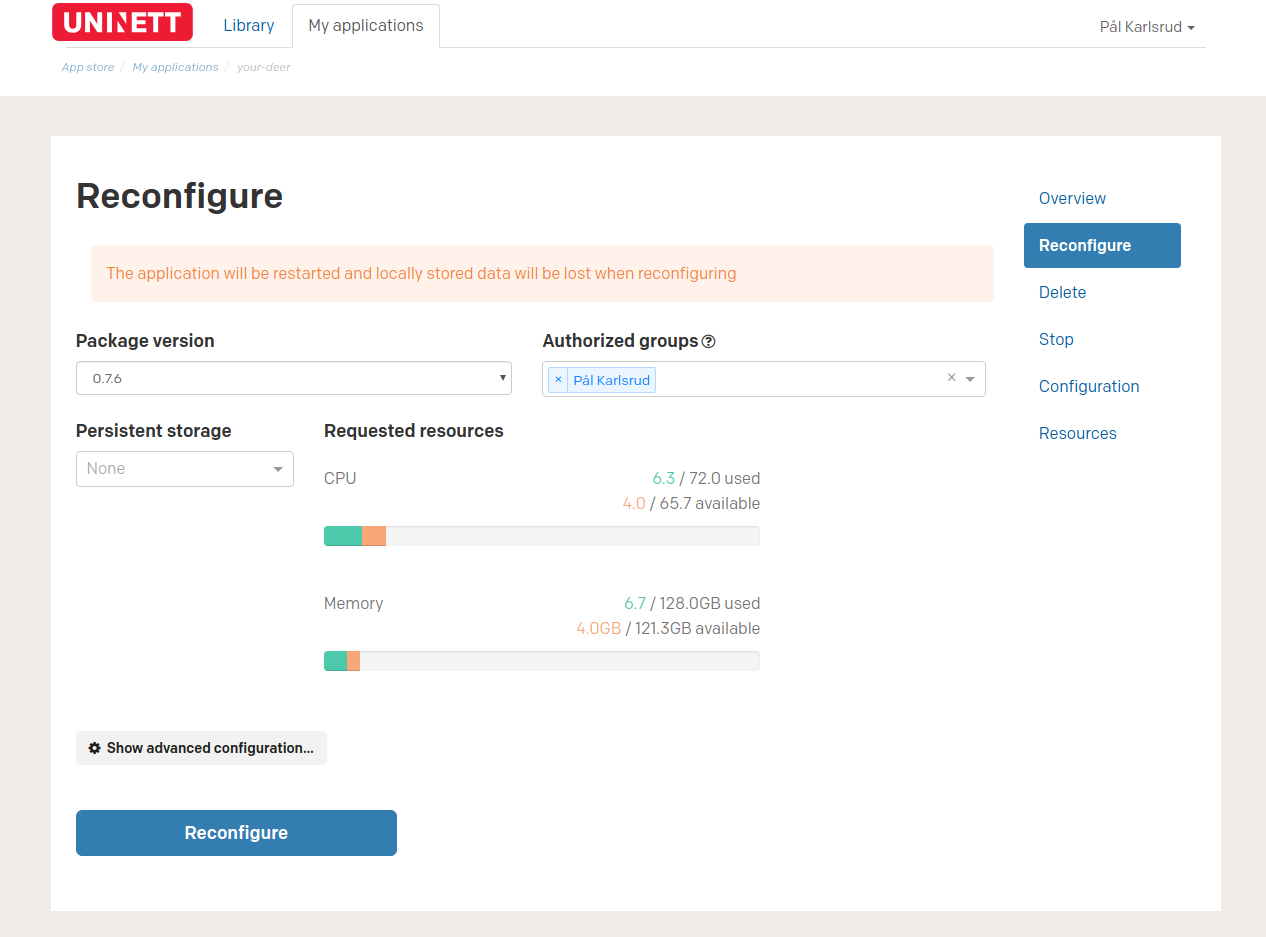
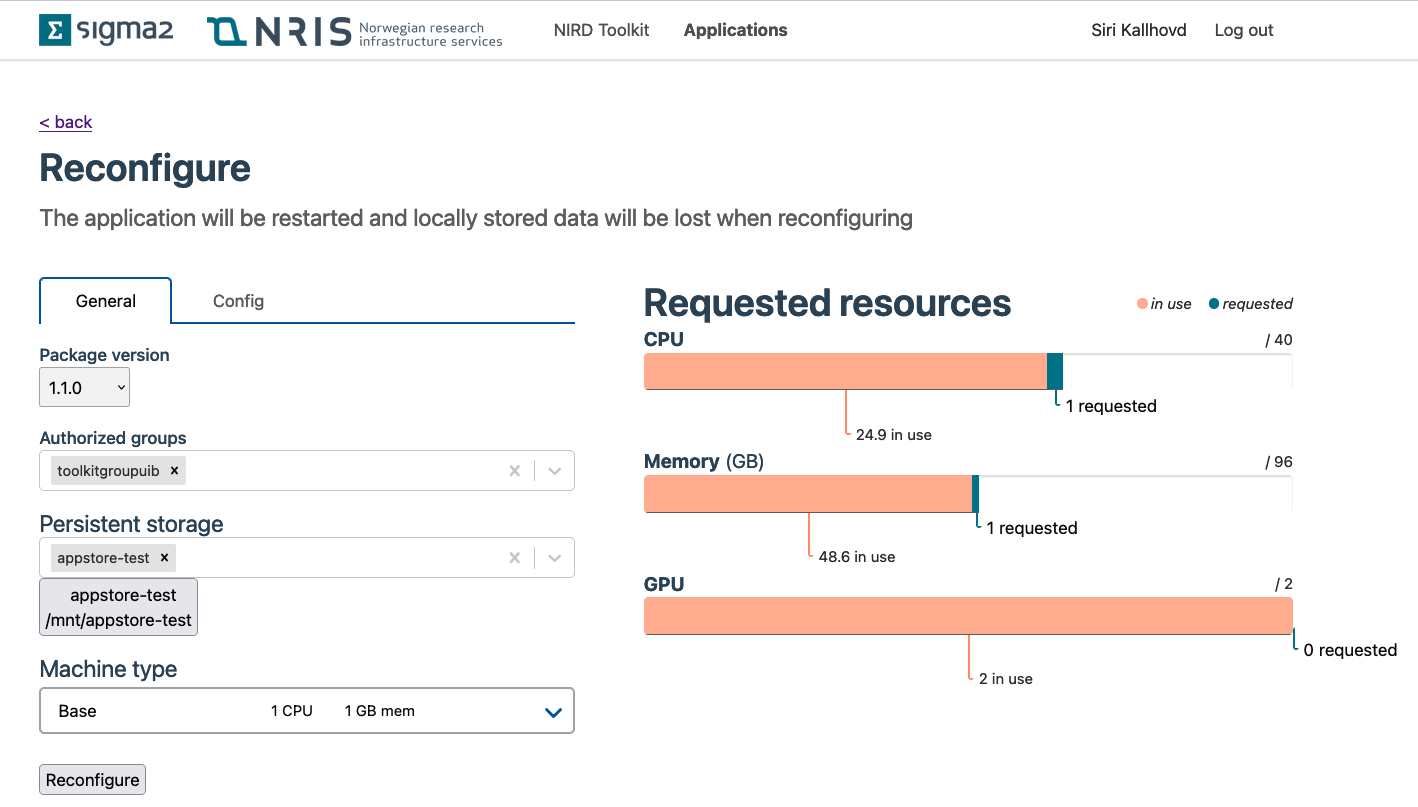
Updated with regards to NIRD Toolkit ui changes

diff --git a/nird_toolkit/application-management.md b/nird_toolkit/application-management.md
@@ -1,7 +1,7 @@
 # Application management
 
 ## Listing all applications
-To list all applications, go to the `My applications` tab in the main navigation menu.
+To list all applications, go to the `Applications` tab in the main navigation menu.
 
 ![Application list](imgs/application_list.png)
 
@@ -17,17 +17,13 @@ To view the details of a specific application, click on the name of the applicat
 You will then be taken to a page containing various information about the
 application.
 
-![Application overview](imgs/application_overview_spark.png)
+![Application overview](imgs/application_overview.png)
 As seen above, the first section of this page contains general information about the
 application, such as the URL you can visit in order to use the application,
 when it was created, which projectspace it exists in and email of whoever
 created the application.
 
-Further down the page you can see notes about this application.
-These notes may contain useful information about how to connect to the
-application, or use various other features.
-
-Below the application notes, you will find a list of the volumes that are
+Below, you will find a list of the volumes that are
 accessible to various parts of the application.
 
 At the bottom of the page is a list of events. These events show information
@@ -38,7 +34,7 @@ failing, so most of the time there will be few or none events.
 
 ## Upgrading an application to the newest version
 Sometimes it may be useful to reconfigure your application after it has been
-created. By clicking on the `Reconfigure` tab, you will be navigated to a page
+created. By clicking on `Modify` and then the `Reconfigure` button, you will be navigated to a page
 very similar to the installation page, which allows you to change the
 configuration of a package. This is for instance useful if a new version of
 the package has been released.
@@ -51,18 +47,14 @@ as to what each field means.
 ## Starting and stopping an application
 If you want to keep the application configuration, but stop using the
 resources associated with it, you can stop the application by navigating to
-the `Stop` tab. After stopping the application, you can start it again by
-going to the `Start` tab. This will reuse your previous configuration.
+the `Stop` button. After stopping the application, you can start it again by
+going to the `Start` button. This will reuse your previous configuration.
 
 ## Deleting an application
 When you are done using your application, you can delete it by going to the
-`Delete`-tab. After the application has been deleted, you may for some time be
+`Delete`-button. After the application has been deleted, you may for some time be
 able to find the application by listing all applications, and then choose
 `All` in the status filtering bar.
-
-![Application list deleted](imgs/application_deleted.png)
-You can then navigate to the application, and go to the `Configuration` tab in
-order to see which configuration the application had when running.
 
 ## *Advanced* - Viewing the Kubernetes resources an application is using
 To view the Kubernetes resources created by your application, navigate to the

diff --git a/nird_toolkit/package-install.md b/nird_toolkit/package-install.md
@@ -16,7 +16,7 @@ be taken to the installation page, where you can configure and install the packa
 In many cases it might be useful to visit the package overview package before
 installing the package, as this contains information about exactly what will
 be installed, and may contain useful information about the configuration of
-a package. To find out more about a package, click on the package description.
+a package. To find out more about a package, click on Read more.
 
 After navigating to the package overview page, you will be greeted with a
 high-level description of what the package is and what it installs.
@@ -39,14 +39,14 @@ To install a package, you are required to fill in some values.
 Some common values are present in most packages, and the meaning of these is covered in
 {ref}`Appendix A <appendix-a-the-meaning-of-each-of-common-fields-in-the-installation-form>` . 
 
-The only values that you are required to fill are the `Application name` and
+The only values that you are required to fill are the `Name` and
 `URL` fields. There are however several optional values that can be useful in
-some use-cases. Some of these values reside in the `Advanced configuration`
+some use-cases. Some of these values reside in the `Configuration`
 section. What these values means should be covered in 
 {ref}`Appendix A <appendix-a-the-meaning-of-each-of-common-fields-in-the-installation-form>` .
 
-After filling in the `Application name` and `URL` fields, you can install the
-application by clicking the `Install` button. You are then taken to a page
+After filling in the `Name` and `URL` fields, you can install the
+application by clicking the `Install Package` button. You are then taken to a page
 showing an overview of your newly created application.
 
 ![Application overview](imgs/application_overview.png)
@@ -63,7 +63,7 @@ go to the [Managing applications](application-management.md) section.
 ## Appendix A: the meaning of each of common fields in the installation form
 
 ### Required fields
-#### Application name
+#### Name
 To make it easier to determine identify applications, you are required give
 your application a name. This name is meant as a human friendly way of
 describing the application.
@@ -89,7 +89,7 @@ the 'authorized groups' selector allows you to specify which groups
 are allowed to access the application.
 
 
-#### Persistent storage
+#### Storage
 Allows you to attach a volume that can be used to persistently
 store data. The [enabling persistent storage section](persistent-storage.md)
 goes into more detail as to what this does.
@@ -118,8 +118,8 @@ resource is available.
 
 ![Requested resources](imgs/requested_resources.png)
 
-Orange is used to indicate how much of
-the resource you are about to allocate, and green indicates how much
+Green is used to indicate how much of
+the resource you are about to allocate, and orange indicates how much
 is already in use. red indicates that you are about to attempt to
 allocate more resources than what is available.
 

diff --git a/nird_toolkit/about-packages/jupyter/about.md b/nird_toolkit/about-packages/jupyter/about.md
@@ -8,8 +8,7 @@ orphan: true
 
 ## Enabling JupyterLab
 JupyterLab is the next-generation of Jupyter notebooks and provides a more
-flexible and powerful user-interface. To enable JupyterLab, go to `Advanced
-configuration` while installing, and check the `jupyterLab` checkbox.
+flexible and powerful user-interface. To enable JupyterLab, go to `Configuration` while installing, and check the `jupyterLab` checkbox.
 
 ## Usage
 The Jupyter package provides a pre-configured development environment based
@@ -44,9 +43,9 @@ First, we need to create an Apache Spark cluster. We will do this by installing
 the `spark` package, but you can also connect to any publicly accessible
 Spark cluster.
 
-Fill in the `Application name` and `URL` as desired. If you need more than one
+Fill in the `Name` and `URL` as desired. If you need more than one
 worker, or more resources are required for the workers and master, go to the
-`Advanced configuration` section, and change these to your desired values.
+`Configuration` section, and change these to your desired values.
 [Image of spark install form with values filled in]
 
 When the application is running, copy the Spark master URL in the
@@ -56,15 +55,15 @@ the notebook will attempt to connect to.
 
 #### Creating the notebook
 It is now time to install Jupyter. Navigate back to the package library, and
-go to the Jupyter installation page. Fill in the `Application name` and `URL`
+go to the Jupyter installation page. Fill in the `Name` and `URL`
 once again.
 
 #### Connecting to Apache Spark
-Now go to the `Advanced configuration` section and paste in
+Now go to the `Configuration` section and paste in
 the Spark master URL you obtained in one of the previous steps.
 The package is now ready to be installed, so go ahead and press `Install`.
 
-![Jupyter application overview](./jupyter_application_overview.png)
+![Jupyter application overview](../../imgs/application_overview.png)
 
 Click on the link in the `URL` column in order to access the Jupyter notebook.
 In order to test the connection to Spark, you first need to create a
@@ -101,11 +100,11 @@ After having read the tutorial above, you can use the dockerfile below as a star
 ```
 # See the value of dockerImage in
 #
-#   https://github.com/Uninett/helm-charts/blob/master/repos/stable/jupyter/values.yaml
+#   https://github.com/UninettSigma2/helm-charts/blob/master/repos/stable/jupyter/values.yaml
 #
 # to determine the latest base image
 
-FROM quay.io/uninett/jupyter-spark:<insert latest tag here>
+FROM quay.io/nird-toolkit/jupyter-spark:<insert latest tag here>
 
 # Install system packages
 USER root

diff --git a/nird_toolkit/custom-docker-image.md b/nird_toolkit/custom-docker-image.md
@@ -10,7 +10,7 @@ See the documentation of the specific package (ex. Jupyter) you want to add pack
 Typically, the dockerfile looks similar to the following
 ```
 # The image to use as a base image
-FROM quay.io/uninett/example-docker-image:20180102-xxxxxxx
+FROM quay.io/nird-toolkit/example-docker-image:20230102-xxxxxxx
 
 # Install system packages
 USER root
@@ -22,6 +22,6 @@ RUN pip install scikit-learn
 ```
 
 You need to have this image pushed to a public repository e.g. [Docker hub](https://hub.docker.com/) or [Quay Registry](https://quay.io).
-Once pushed, you can use the docker image by specifying the `dockerImage` under `Show advanced configuration` button on the `Installation/Reconfigure` page.
+Once pushed, you can use the docker image by specifying the `dockerImage` under `Configuration` button on the `Installation/Reconfigure` page.
 Note that the exact name of the field may very, but the field name should end with `Image` (ex. `workerImage`, `userImage` etc.).
 After specifying your custom image and applying those changes, your image will be used in the given instance of application and have all the newly added packages.

diff --git a/nird_toolkit/about-packages/jupyterhub/about.md b/nird_toolkit/about-packages/jupyterhub/about.md
@@ -6,7 +6,7 @@ orphan: true
 ## Sharing data among users
 To share data among the users of JupyterHub, when installing or reconfiguring,
 start by selecting a volume in the persistent storage field.
-Then, navigate to the `Advanced configuration` section and check the `enabled`
+Then, navigate to the `Configuration` section and check the `enabled`
 checkbox in the `sharedData` subsection.
 
 ![Reconfigure jupyter with shared data](./jupyterhub_shared_data.png)
@@ -88,11 +88,11 @@ After having read the tutorial above, you can use the dockerfile below as a star
 ```
 # See the value of userImage in
 #
-#   https://github.com/Uninett/helm-charts/blob/master/repos/stable/jupyterhub/values.yaml
+#   https://github.com/UninettSigma2/helm-charts/blob/master/repos/stable/jupyterhub/values.yaml
 #
 # to determine the latest base image
 
-FROM quay.io/uninett/jupyterhub-singleuser:<use latest tag here>
+FROM quay.io/nird-toolkit/jupyterhub-singleuser:<use latest tag here>
 
 # Install system packages
 USER root

diff --git a/nird_toolkit/about-packages/spark/about.md b/nird_toolkit/about-packages/spark/about.md
@@ -5,7 +5,7 @@ orphan: true
 # Configuration
 ## Adding more workers
 By default, only one worker is created. To create more workers, set `replicas`
-(in the `Advanced configuration` panel) to the desired number of workers when
+(in the `Configuration` panel) to the desired number of workers when
 installing the package, or when reconfiguring an existing application. More
 workers will then automatically be associated with the cluster.
 
@@ -59,11 +59,11 @@ After having read the tutorial above, you can use the dockerfile below as a star
 ```
 # See the value of masterImage/workerImage in
 #
-#   https://github.com/Uninett/helm-charts/blob/master/repos/stable/spark/values.yaml
+#   https://github.com/UninettSigma2/helm-charts/blob/master/repos/stable/spark/values.yaml
 #
 # to determine the latest base image
 
-FROM quay.io/uninett/jupyter-spark:<use latest tag here>
+FROM quay.io/nird-toolkit/jupyter-spark:<use latest tag here>
 
 # Install system packages
 USER root

diff --git a/nird_toolkit/about-packages/deep-learning-tools/about.md b/nird_toolkit/about-packages/deep-learning-tools/about.md
@@ -54,11 +54,11 @@ After having read the tutorial above, you can use the dockerfile below as a star
 ```
 # See the value of dockerImage in
 #
-#   https://github.com/Uninett/helm-charts/blob/master/repos/stable/deep-learning-tools/values.yaml
+#   https://github.com/UninettSigma2/helm-charts/blob/master/repos/stable/deep-learning-tools/values.yaml
 #
 # to determine the latest base image
 
-FROM quay.io/uninett/deep-learning-tools:<use latest tag here>
+FROM quay.io/nird-toolkit/deep-learning-tools2:<use latest tag here>
 
 # Install system packages
 USER root

diff --git a/nird_toolkit/getting_started_guide.md b/nird_toolkit/getting_started_guide.md
@@ -54,7 +54,7 @@ Once the group is created, you can send a share link to yourself. Copy and paste
 **Authorize group to service**  
 In the Toolkit, add the Feide ad-hoc group you created under "Authorized groups" on the service. You can reconfigure an existing service to do this as well.
 
-![Authorized groups](imgs/authorized_groups.png "Authorized groups")
+![Authorized groups](imgs/application_reconfigure.png "Authorized groups")
 
 **Log in with OpenIdP**  
 We recommend using another browser or an incognito tab to separate the sessions.

diff --git a/nird_toolkit/about-packages/desktop-vnc/about.md b/nird_toolkit/about-packages/desktop-vnc/about.md
@@ -17,11 +17,11 @@ After having read the tutorial above, you can use the dockerfile below as a star
 ```
 # See the value of dockerImage in
 #
-#   https://github.com/Uninett/helm-charts/blob/master/repos/stable/desktop-vnc/values.yaml
+#   https://github.com/UNINETTSigma2/helm-charts/blob/master/repos/stable/desktop-vnc/values.yaml
 #
 # to determine the latest base image
 
-FROM quay.io/uninett/desktop-vnc:<use latest tag here>
+FROM quay.io/nird-toolkit/desktop-vnc:<use latest tag here>
 
 # Install system packages
 USER root

diff --git a/nird_toolkit/about-packages/rstudio/about.md b/nird_toolkit/about-packages/rstudio/about.md
@@ -36,12 +36,12 @@ After having read the tutorial above, you can use the dockerfile below as a star
 ```
 # See the value of dockerImage in
 #
-#   https://github.com/Uninett/helm-charts/blob/master/repos/stable/rstudio/values.yaml
+#   https://github.com/UninettSigma2/helm-charts/blob/master/repos/stable/rstudio/values.yaml
 #
 # to determine the latest base image
 
 
-FROM quay.io/uninett/rstudio-server:<use latest tag here>
+FROM quay.io/nird-toolkit/rstudio-server:<use latest tag here>
 
 # Install system packages
 USER root

diff --git a/nird_toolkit/about-packages/minio/about.md b/nird_toolkit/about-packages/minio/about.md
@@ -4,8 +4,8 @@ orphan: true
 
 # Configuration
 ## Setting a more secure password
-In order to set up a more secure password and username, go to the `Advanced
-configuration` section, and enter a more random `secretKey` and
+In order to set up a more secure password and username, go to the
+`Configuration` section, and enter a more random `secretKey` and
 `accessKey`. Keep in mind that these will be stored in plain-text and be
 accessible in the application `Configuration` tab, so don't reuse these
 anywhere.
